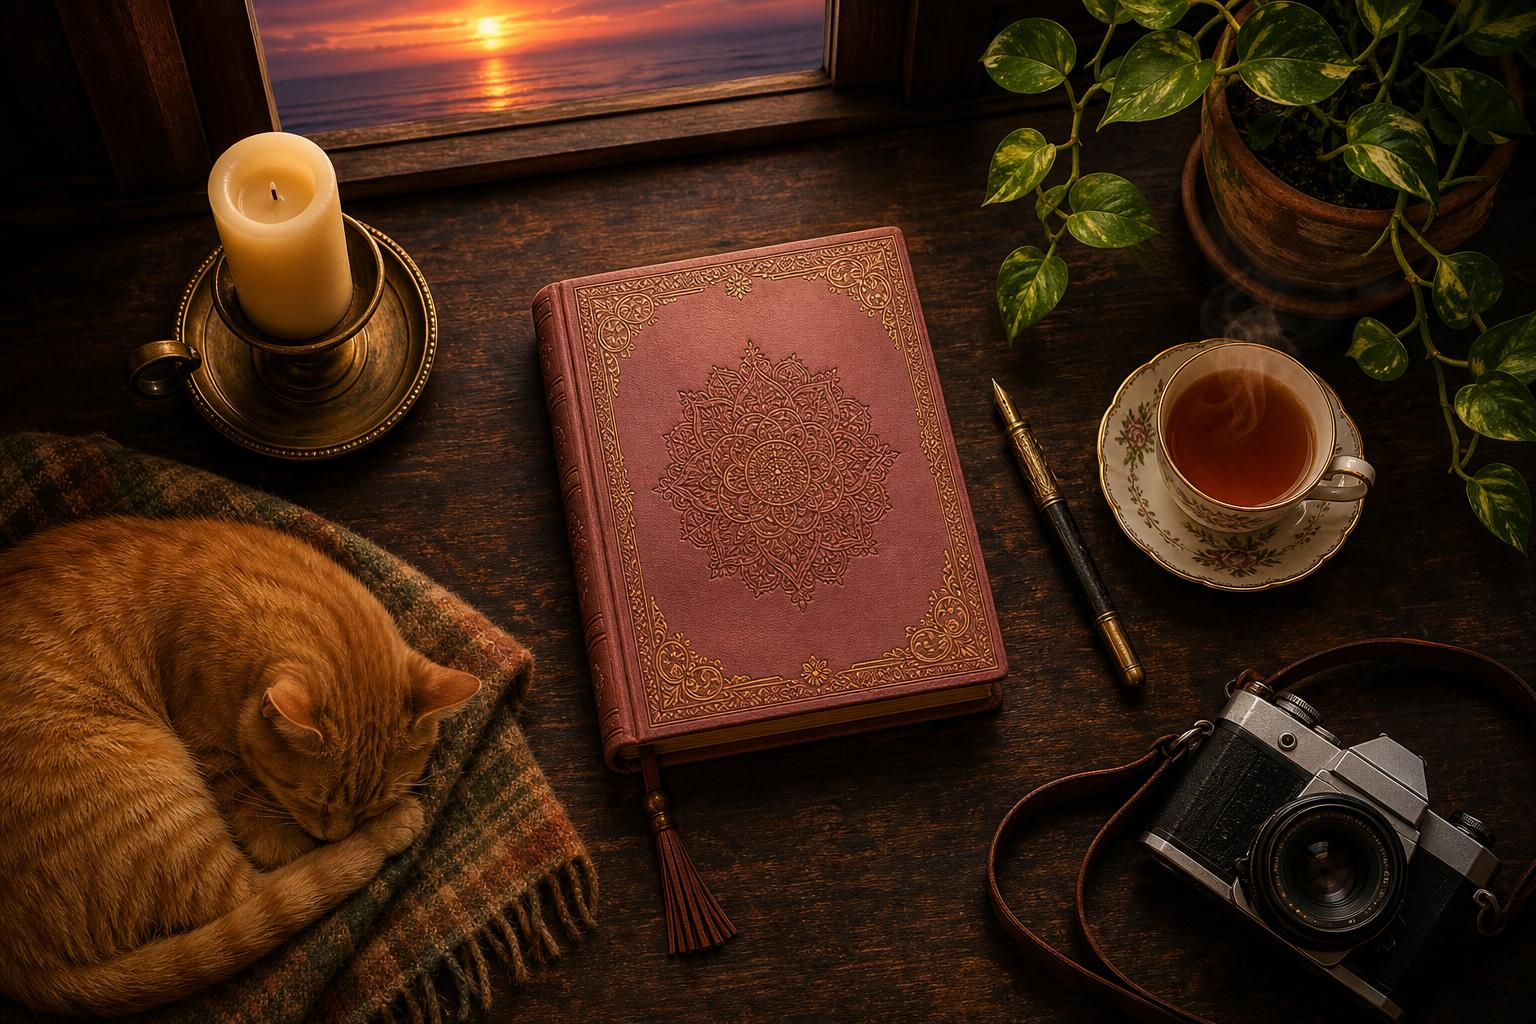
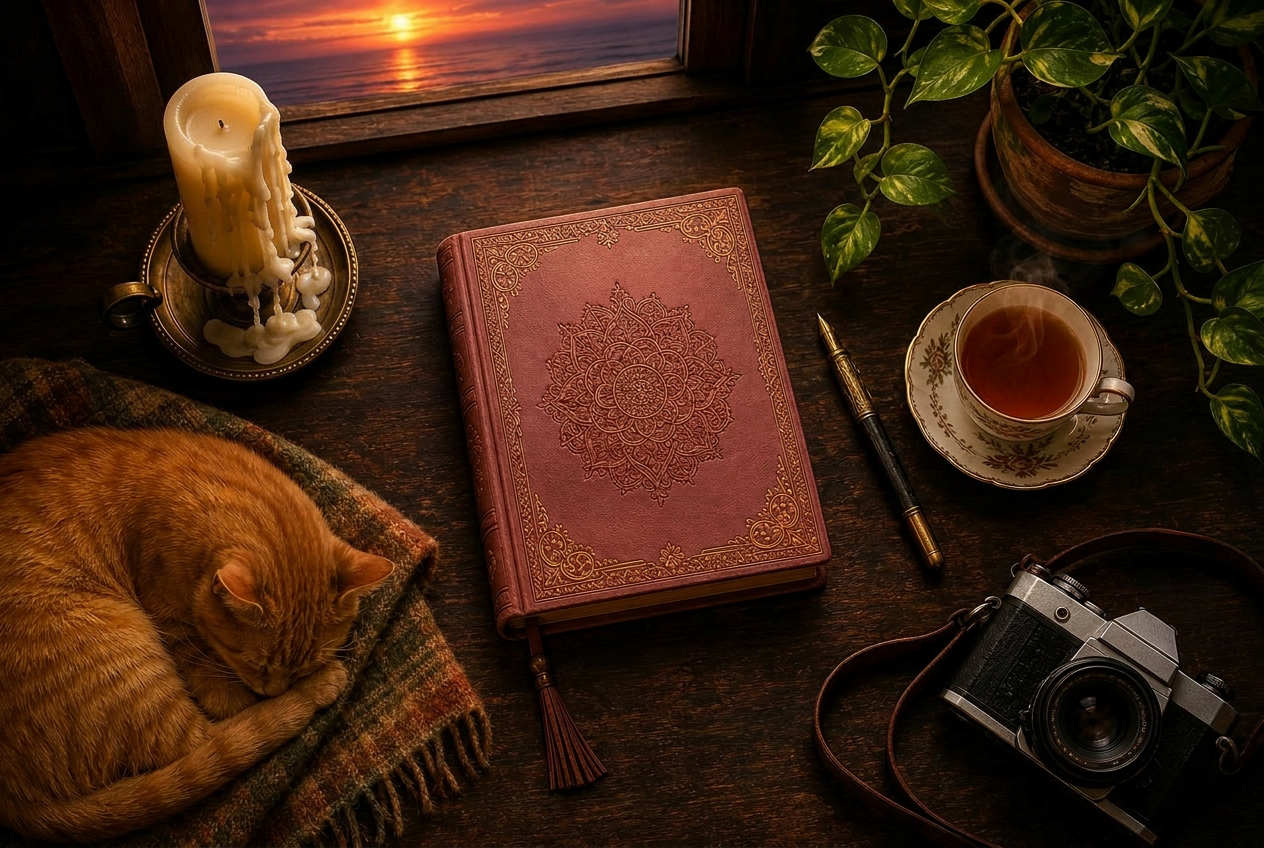
Changes

diff --git a/.lovable/plan.md b/.lovable/plan.md
@@ -1,24 +1,17 @@
-## Subtle sun-on-water shimmer in the window
+## Replace the candle with a dripping-wax version (same holder, same scene)
 
-A tiny, tightly-clipped shimmer of light just under the sun on the ocean — only inside the indicated white-marker patch, only moving left↔right (no vertical drift), no expansion beyond the marked area.
+The candle lives baked into the hero image at `src/assets/raw-unhinged/desk-scene.jpg`. I'll do an AI image edit on just the candle, keeping everything else (brass holder, wick, flame area, wood desk, ginger cat, journal, tea, plant, window, lighting) untouched.
 
 ### Approach
 
-Scope: `src/routes/blog.raw-and-unhinged.tsx` only — one new absolutely-positioned overlay inside the existing hero scene container, plus a small CSS block. No image edits, no layout changes, nothing outside that container.
+1. **Edit the existing scene image** with `imagegen--edit_image` on `desk-scene.jpg`, prompting for: same cream pillar candle in the same brass dish holder, same height and position, same warm candlelit lighting from the right — but with thick, irregular wax drips running down the sides of the candle and pooling slightly on the brass dish. Preserve the rest of the photo exactly.
+2. **Save in place** to `src/assets/raw-unhinged/desk-scene.jpg` (overwrite) so the existing `<img>`, OG image, all anchor percentages (flame, steam, journal hotspot), and the wall cover all keep working without any code changes.
+3. **Verify** with a fresh preview screenshot. If the candle position shifts even slightly (and the animated flame ends up off the wick), I'll either re-run the edit asking for tighter preservation, or nudge the flame's `top`/`left` percentages — no other CSS or layout changes.
 
-1. **Placement** — a small horizontal ellipse anchored at roughly `left: 51%`, `top: 16%`, `width: ~7%`, `height: ~3%` of the scene container. That maps to the patch you drew on the water below the sun. Clipped with `overflow: hidden` + a radial fade mask so the edges feather into the water and nothing leaks outside the marked spot.
-2. **Shimmer content** — 2 very thin horizontal warm-white highlight bands (think sunlight glint on a tiny ripple). Each is a soft `linear-gradient` strip, blurred, `mix-blend-mode: screen`, low opacity (~0.4 peak).
-3. **Motion (left↔right only)** — each band translates a few pixels horizontally on a slow sine, fades in and out, with offset delays so it pulses like real water glint. No `translateY`, no `scale`, no rotation. Stays inside the clipped ellipse at all times.
-4. **Realism touches** — slightly different durations per band (3.8s / 5.2s) so they never sync; very soft blur; low contrast; the whole layer sits below your title text z-index.
-5. **Reduced motion** — `prefers-reduced-motion: reduce` freezes the bands (static faint highlight).
+### Risk + fallback
 
-### Boundary safety
-
-Because the previous shimmer attempts leaked out of the window, this one uses a hard `overflow: hidden` container plus a radial-gradient `mask-image` so even if a band animated wrong, it physically cannot render outside the small marked patch. Container is positioned by percentage of the scene image (same anchoring system the candle flame and tea steam use), so it stays glued to the water spot at every viewport size.
-
-### Preview before declaring done
-
-After the edit I'll screenshot the hero and crop in on the window so you can confirm placement and intensity before anything ships. If the position is off by a few pixels we tune `left/top` only — no other parameters change.
+AI edits sometimes move things a few pixels or alter neighboring objects. If anything other than the candle visibly changes, or the candle position drifts, I'll retry the edit (up to twice) with stricter "do not modify anything else" wording. If it still won't behave, I'll stop and show you both before pushing further.
 
 ### Files touched
-- `src/routes/blog.raw-and-unhinged.tsx` — add `<WaterShimmer />` component (~15 lines JSX) inside the hero scene, and a scoped `.ru-water-glint*` CSS block (~30 lines) near the existing `.ru-steam` styles.
+- `src/assets/raw-unhinged/desk-scene.jpg` — overwritten with the dripping-wax version.
+- No code changes expected.
